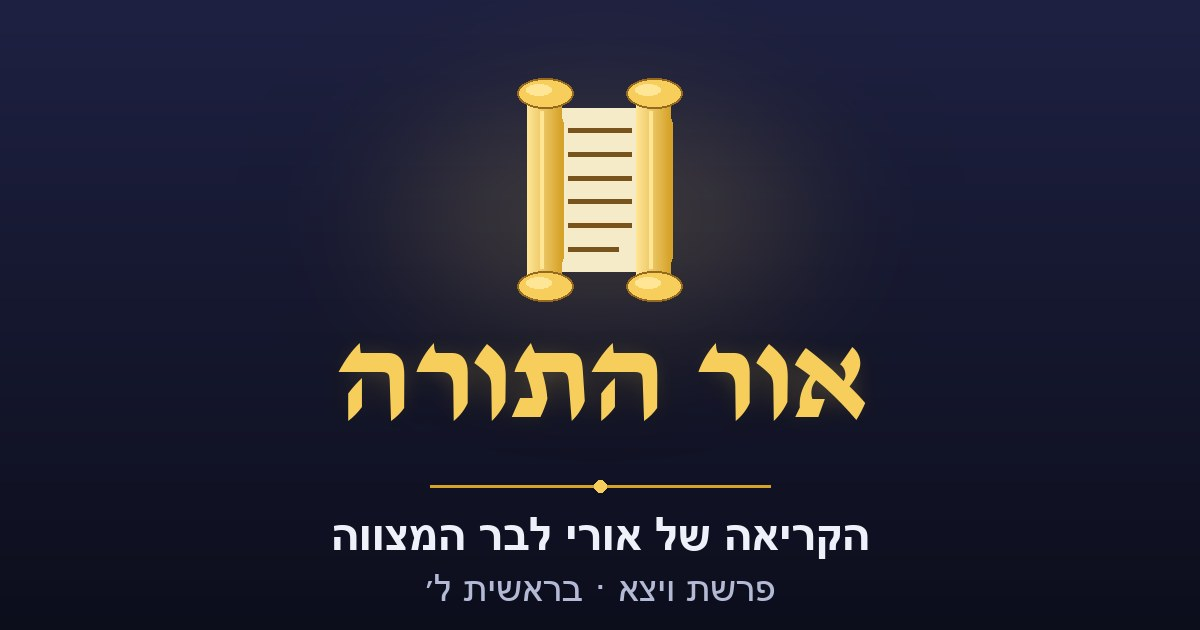
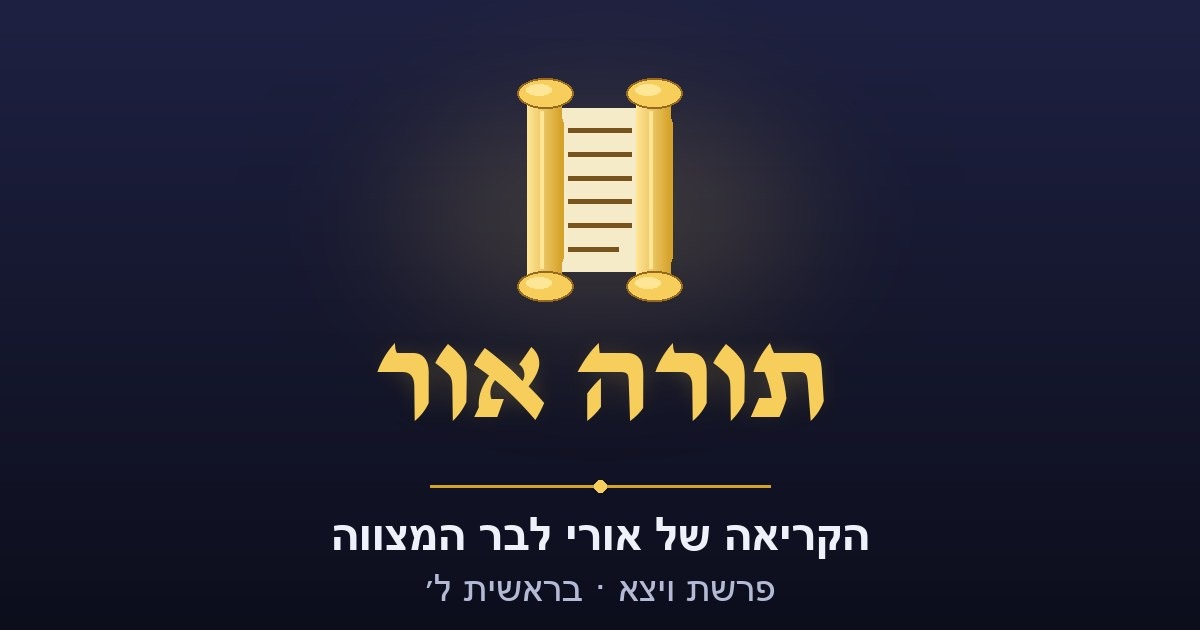
Rename to 'תורה אור'; refresh share image and OG cache-bust

Changed region(s): [[0.2775, 0.5429, 0.74, 0.6635]]

diff --git a/index.html b/index.html
@@ -3,26 +3,26 @@
 <head>
 <meta charset="utf-8">
 <meta name="viewport" content="width=device-width, initial-scale=1, viewport-fit=cover">
-<title>אור התורה · הקריאה של אורי לבר המצווה</title>
-<meta name="description" content="אור התורה — הקריאה של אורי לבר המצווה. פרשת ויצא (בראשית ל׳). לוחצים על כל פסוק ולומדים לפי ההקלטה, עם הדגשת המילה הנקראת.">
+<title>תורה אור · הקריאה של אורי לבר המצווה</title>
+<meta name="description" content="תורה אור — הקריאה של אורי לבר המצווה. פרשת ויצא (בראשית ל׳). לוחצים על כל פסוק ולומדים לפי ההקלטה, עם הדגשת המילה הנקראת.">
 
 <!-- Open Graph / WhatsApp / social preview -->
 <meta property="og:type" content="website">
-<meta property="og:site_name" content="אור התורה">
-<meta property="og:title" content="אור התורה">
+<meta property="og:site_name" content="תורה אור">
+<meta property="og:title" content="תורה אור">
 <meta property="og:description" content="הקריאה של אורי לבר המצווה · פרשת ויצא. לוחצים על כל פסוק ולומדים לפי ההקלטה, עם הדגשת המילה הנקראת.">
 <meta property="og:url" content="https://amitrubin10.github.io/bar_mitzva/">
-<meta property="og:image" content="https://amitrubin10.github.io/bar_mitzva/share.png?v=1">
-<meta property="og:image:secure_url" content="https://amitrubin10.github.io/bar_mitzva/share.png?v=1">
+<meta property="og:image" content="https://amitrubin10.github.io/bar_mitzva/share.png?v=2">
+<meta property="og:image:secure_url" content="https://amitrubin10.github.io/bar_mitzva/share.png?v=2">
 <meta property="og:image:type" content="image/png">
 <meta property="og:image:width" content="1200">
 <meta property="og:image:height" content="630">
-<meta property="og:image:alt" content="אור התורה — הקריאה של אורי לבר המצווה">
+<meta property="og:image:alt" content="תורה אור — הקריאה של אורי לבר המצווה">
 <meta property="og:locale" content="he_IL">
 <meta name="twitter:card" content="summary_large_image">
-<meta name="twitter:title" content="אור התורה">
+<meta name="twitter:title" content="תורה אור">
 <meta name="twitter:description" content="הקריאה של אורי לבר המצווה · פרשת ויצא.">
-<meta name="twitter:image" content="https://amitrubin10.github.io/bar_mitzva/share.png?v=1">
+<meta name="twitter:image" content="https://amitrubin10.github.io/bar_mitzva/share.png?v=2">
 
 <!-- PWA -->
 <link rel="manifest" href="manifest.webmanifest">
@@ -30,7 +30,7 @@
 <meta name="mobile-web-app-capable" content="yes">
 <meta name="apple-mobile-web-app-capable" content="yes">
 <meta name="apple-mobile-web-app-status-bar-style" content="black-translucent">
-<meta name="apple-mobile-web-app-title" content="אור התורה">
+<meta name="apple-mobile-web-app-title" content="תורה אור">
 <link rel="apple-touch-icon" href="icons/apple-touch-icon.png">
 <link rel="icon" href="icons/favicon.png" type="image/png">
 
@@ -42,7 +42,7 @@
 <div class="wrap">
   <header class="top">
     <div class="kicker">בס״ד · לכבוד בר המצווה</div>
-    <h1>אור התורה</h1>
+    <h1>תורה אור</h1>
     <div class="sub">הקריאה של אורי · פרשת ויצא · עלייה רביעית</div>
     <div class="ref-badge">ספר בראשית · פרק ל׳, פסוקים י״ד–כ״ז</div>
   </header>

diff --git a/sw.js b/sw.js
@@ -1,5 +1,5 @@
 /* Service worker — offline app shell + media caching */
-const CACHE = "ori-bar-mitzva-v3";
+const CACHE = "ori-bar-mitzva-v4";
 const ASSETS = [
   "./",
   "./index.html",